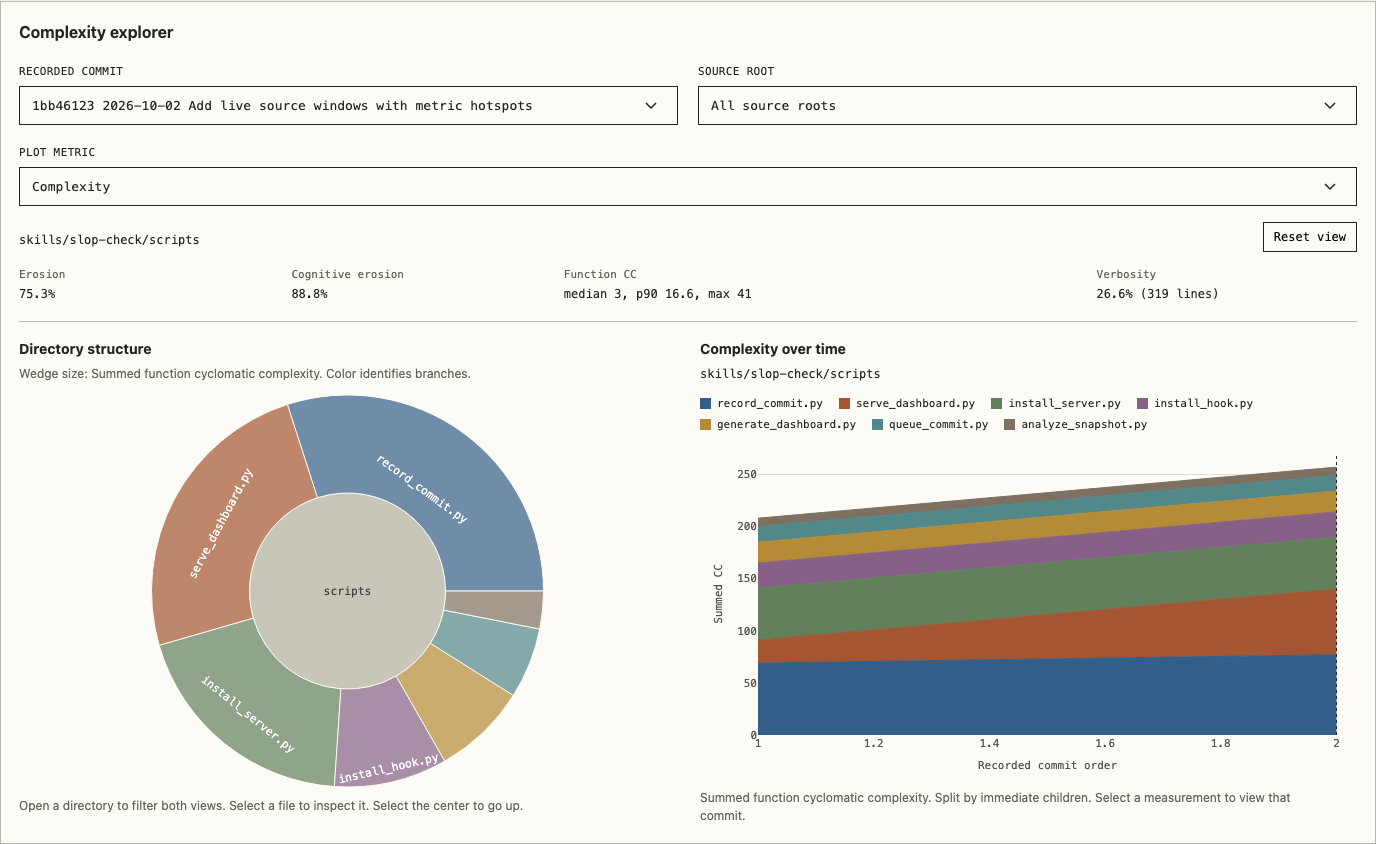
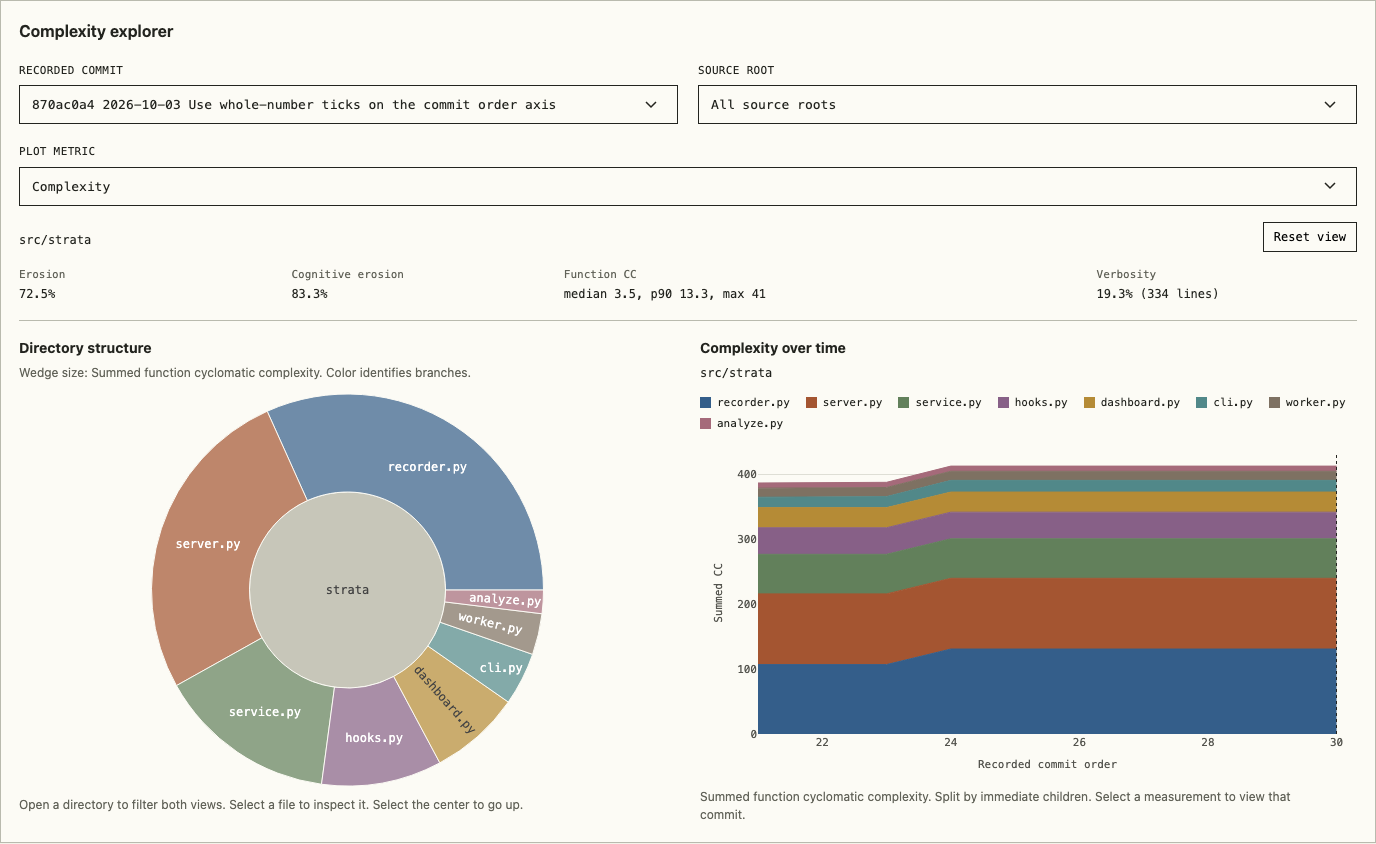
Refresh the dashboard screenshot with Strata's own history

diff --git a/README.md b/README.md
@@ -11,7 +11,7 @@ hotspots.
 
 [![Strata's directory explorer and commit timeline](docs/images/dashboard.png)](docs/images/dashboard.png)
 
-Strata measuring its own recorder and server across two commits.
+*Strata measuring its own source across ten commits.*
 
 [![Commit source with syntax highlighting, complexity hotspots, and a minimap](docs/images/source-hotspots.png)](docs/images/source-hotspots.png)
 
